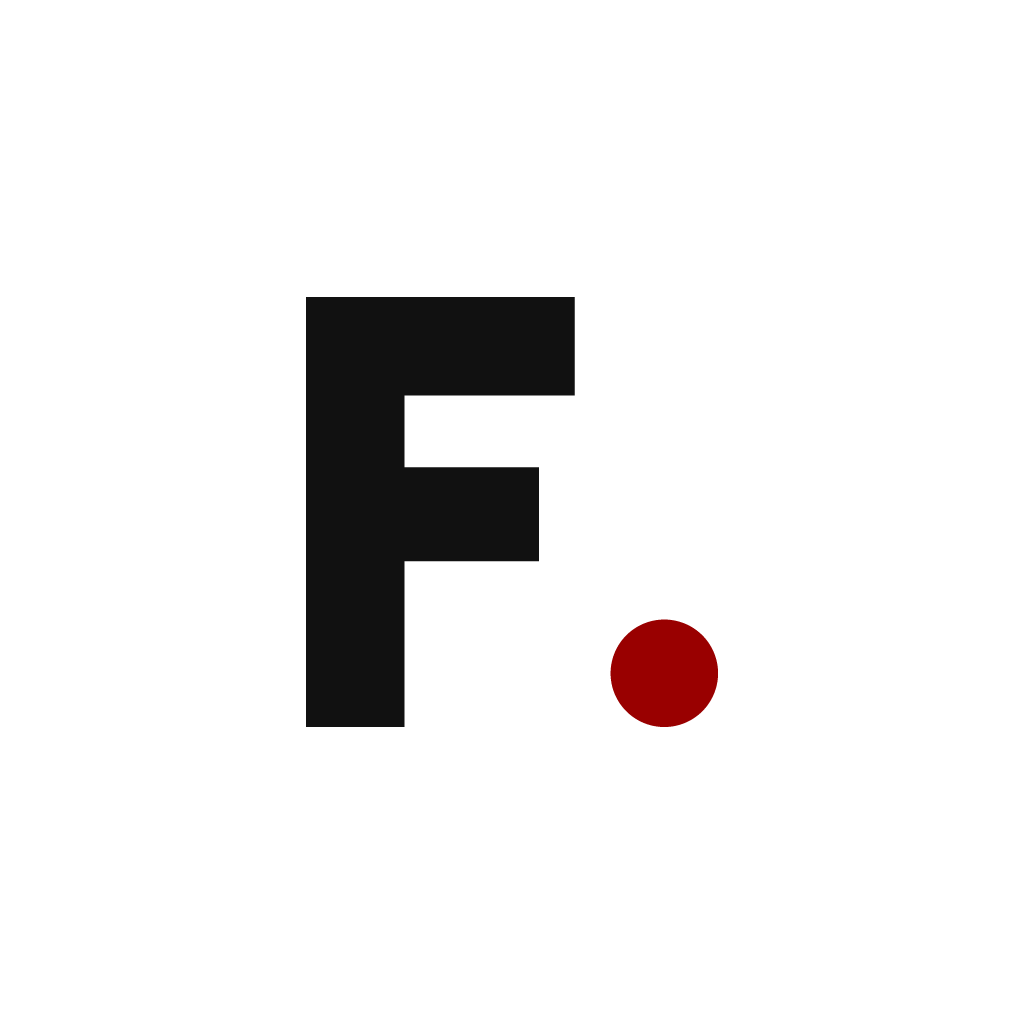
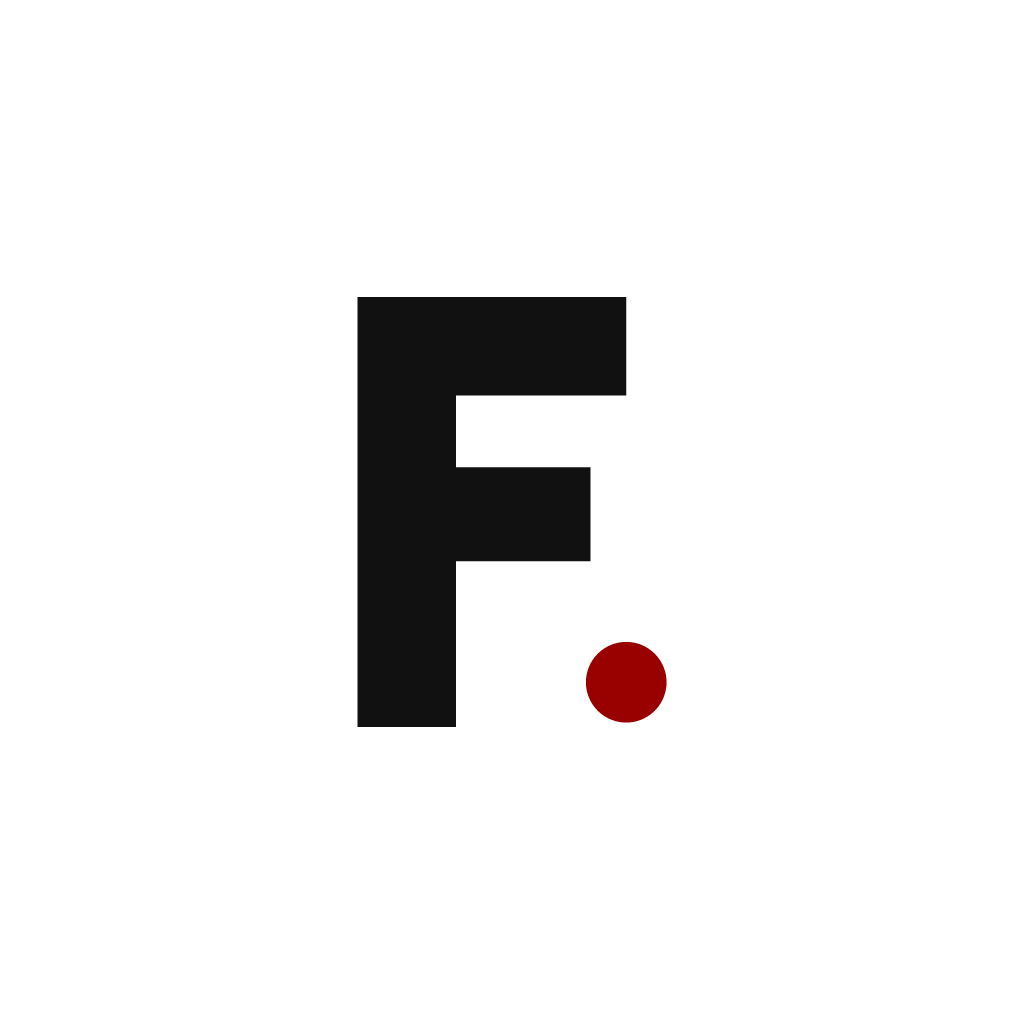
fix(mobile): polish launch and legal consent flow

diff --git a/mobile/src/app/_layout.tsx b/mobile/src/app/_layout.tsx
@@ -14,6 +14,7 @@ import {
 } from '@expo-google-fonts/figtree';
 import { SessionProvider, useSession } from '@/lib/session';
 import { openDeepLink } from '@/lib/nav';
+import { routeAllowedDuringOnboarding } from '@/lib/onboardingRoute';
 import { UnreadProvider } from '@/lib/unread';
 import { T } from '@/lib/theme';
 
@@ -48,7 +49,8 @@ function AuthWatcher() {
     if (onboarded === 'unknown') return;
     if (onboarded === 'no') {
       // New user: setup comes before the app, whichever way they got here.
-      if (group !== '(onboarding)') router.replace('/(onboarding)/setup');
+      const currentRoot = group ? `/${group}` : '/';
+      if (!routeAllowedDuringOnboarding(currentRoot)) router.replace('/(onboarding)/setup');
     } else if (group === '(auth)' || group === '(onboarding)') {
       router.replace('/(tabs)/feed');
     }

diff --git a/mobile/src/lib/onboardingRoute.test.ts b/mobile/src/lib/onboardingRoute.test.ts
@@ -1,0 +1,13 @@
+import { describe, expect, it } from 'vitest';
+import { routeAllowedDuringOnboarding } from './onboardingRoute';
+
+describe('routeAllowedDuringOnboarding', () => {
+  it('keeps Terms and Privacy reachable before legal acceptance', () => {
+    expect(routeAllowedDuringOnboarding('/terms')).toBe(true);
+    expect(routeAllowedDuringOnboarding('/privacy')).toBe(true);
+  });
+
+  it('does not let an unfinished profile enter the main app', () => {
+    expect(routeAllowedDuringOnboarding('/(tabs)/feed')).toBe(false);
+  });
+});

diff --git a/mobile/src/app/(onboarding)/setup.tsx b/mobile/src/app/(onboarding)/setup.tsx
@@ -246,7 +246,7 @@ export default function Setup() {
     <SafeAreaView style={{ flex: 1, backgroundColor: T.bg }} edges={['top']}>
       <FormScroll contentContainerStyle={{ paddingHorizontal: 20, paddingTop: S.screenTop, paddingBottom: S.screenBottom }}>
         <Text style={{ fontFamily: F.black, fontSize: 22, color: T.ink, letterSpacing: -0.9 }}>
-          Flipd<Text style={{ color: T.gold }}>.</Text>
+          Flipd<Text style={{ color: T.cardinal }}>.</Text>
         </Text>
 
         {legalOnly ? (

diff --git a/mobile/src/lib/onboardingRoute.ts b/mobile/src/lib/onboardingRoute.ts
@@ -1,0 +1,5 @@
+const ONBOARDING_ROUTES = new Set(['/(onboarding)', '/terms', '/privacy']);
+
+export function routeAllowedDuringOnboarding(path: string): boolean {
+  return ONBOARDING_ROUTES.has(path);
+}
